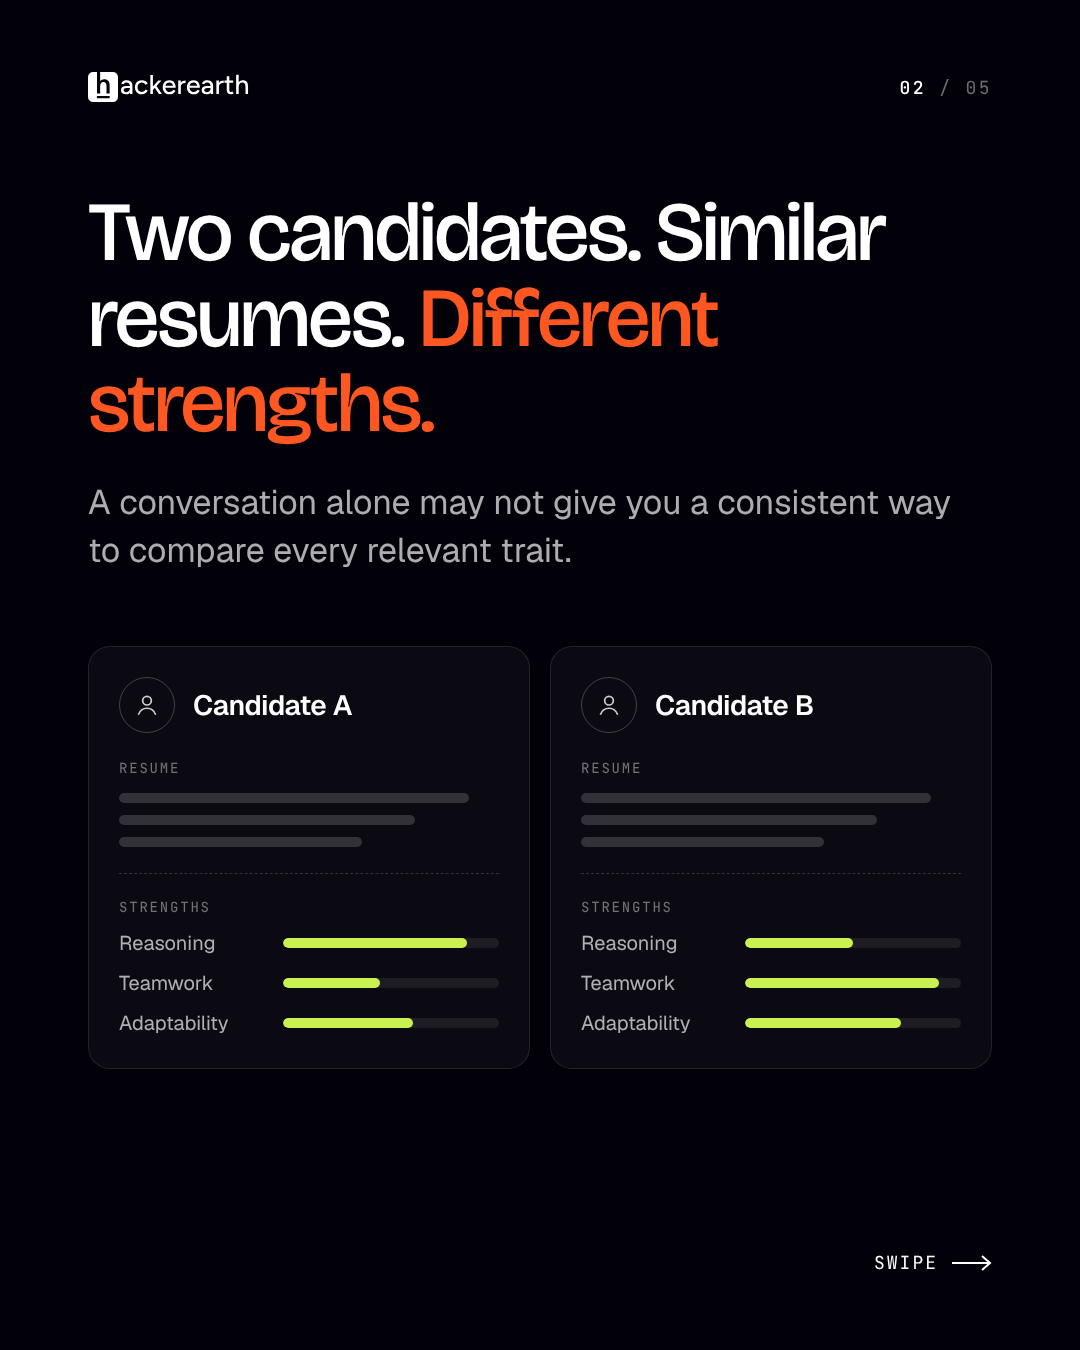
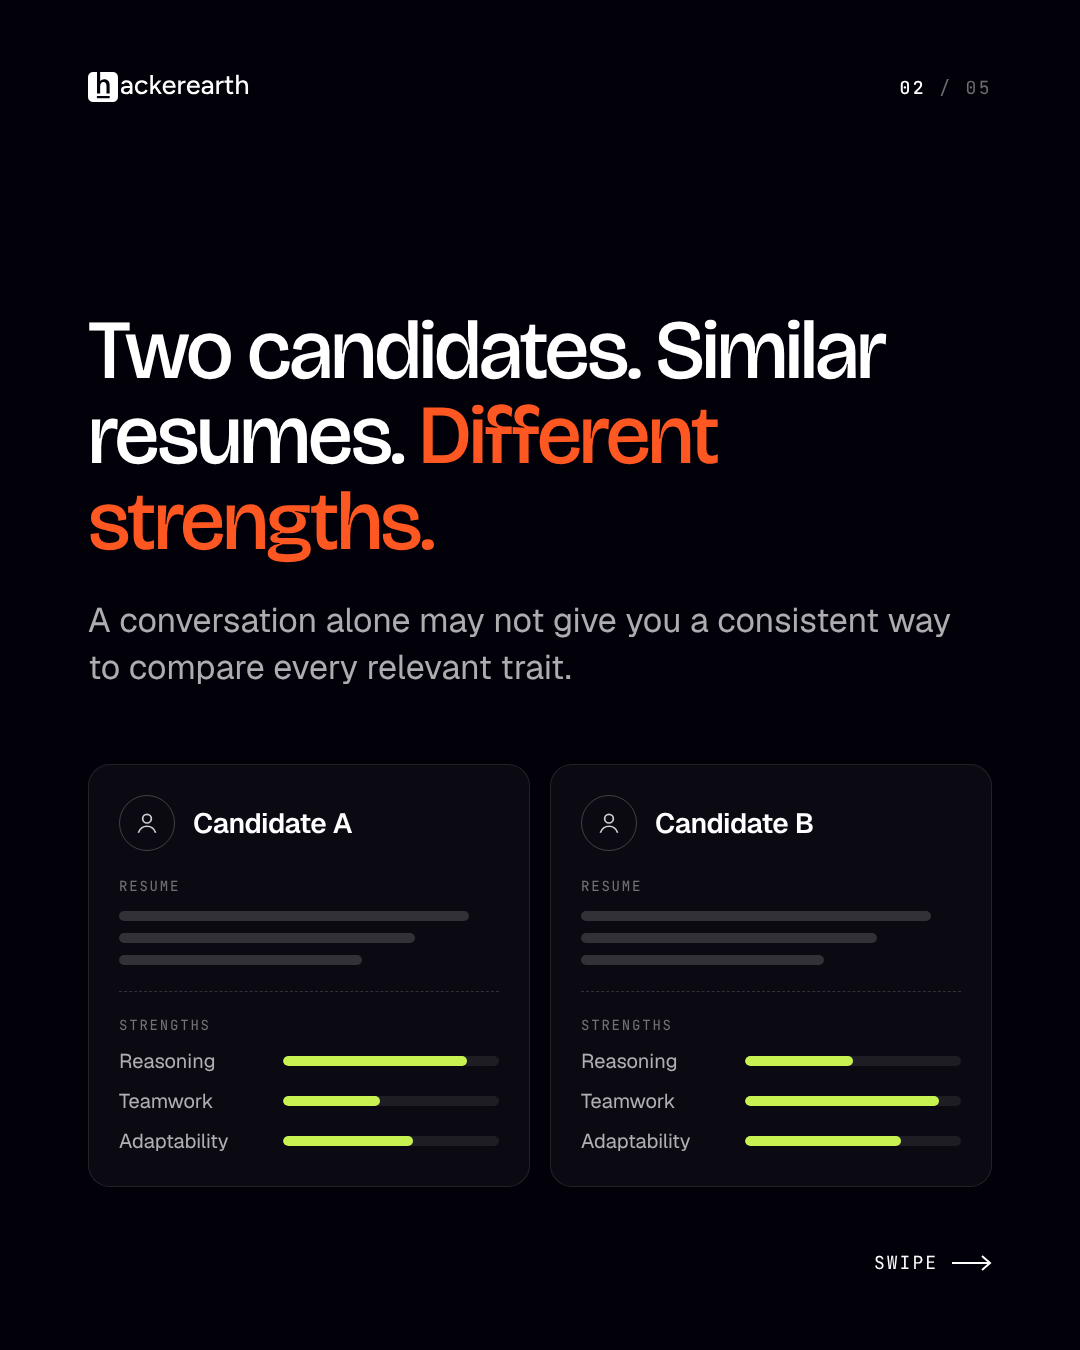
Hiring carousel: move slide 2 and 3 content lower
Claude-Session: https://claude.ai/code/session_011WvSfd7jShGBWHTo2t24v1

diff --git a/instagram-carousels/hiring-missing-something/carousel.html b/instagram-carousels/hiring-missing-something/carousel.html
@@ -68,6 +68,10 @@
   .s1 .lead { margin-top: 24px; font-size: 36px; }
   .s1 .foot { margin-top: 0; padding-top: 56px; }
 
+  /* Slides 2–3: text + visual block sits lower, just above the footer */
+  .s2 h2, .s3 h2 { margin-top: auto; }
+  .s2 .foot, .s3 .foot { margin-top: 0; padding-top: 64px; }
+
   /* ----- Slide 2 · Two candidates ----- */
   .pair { display: grid; grid-template-columns: 1fr 1fr; gap: 20px; }
   .cand { padding: 30px 30px 32px; }
